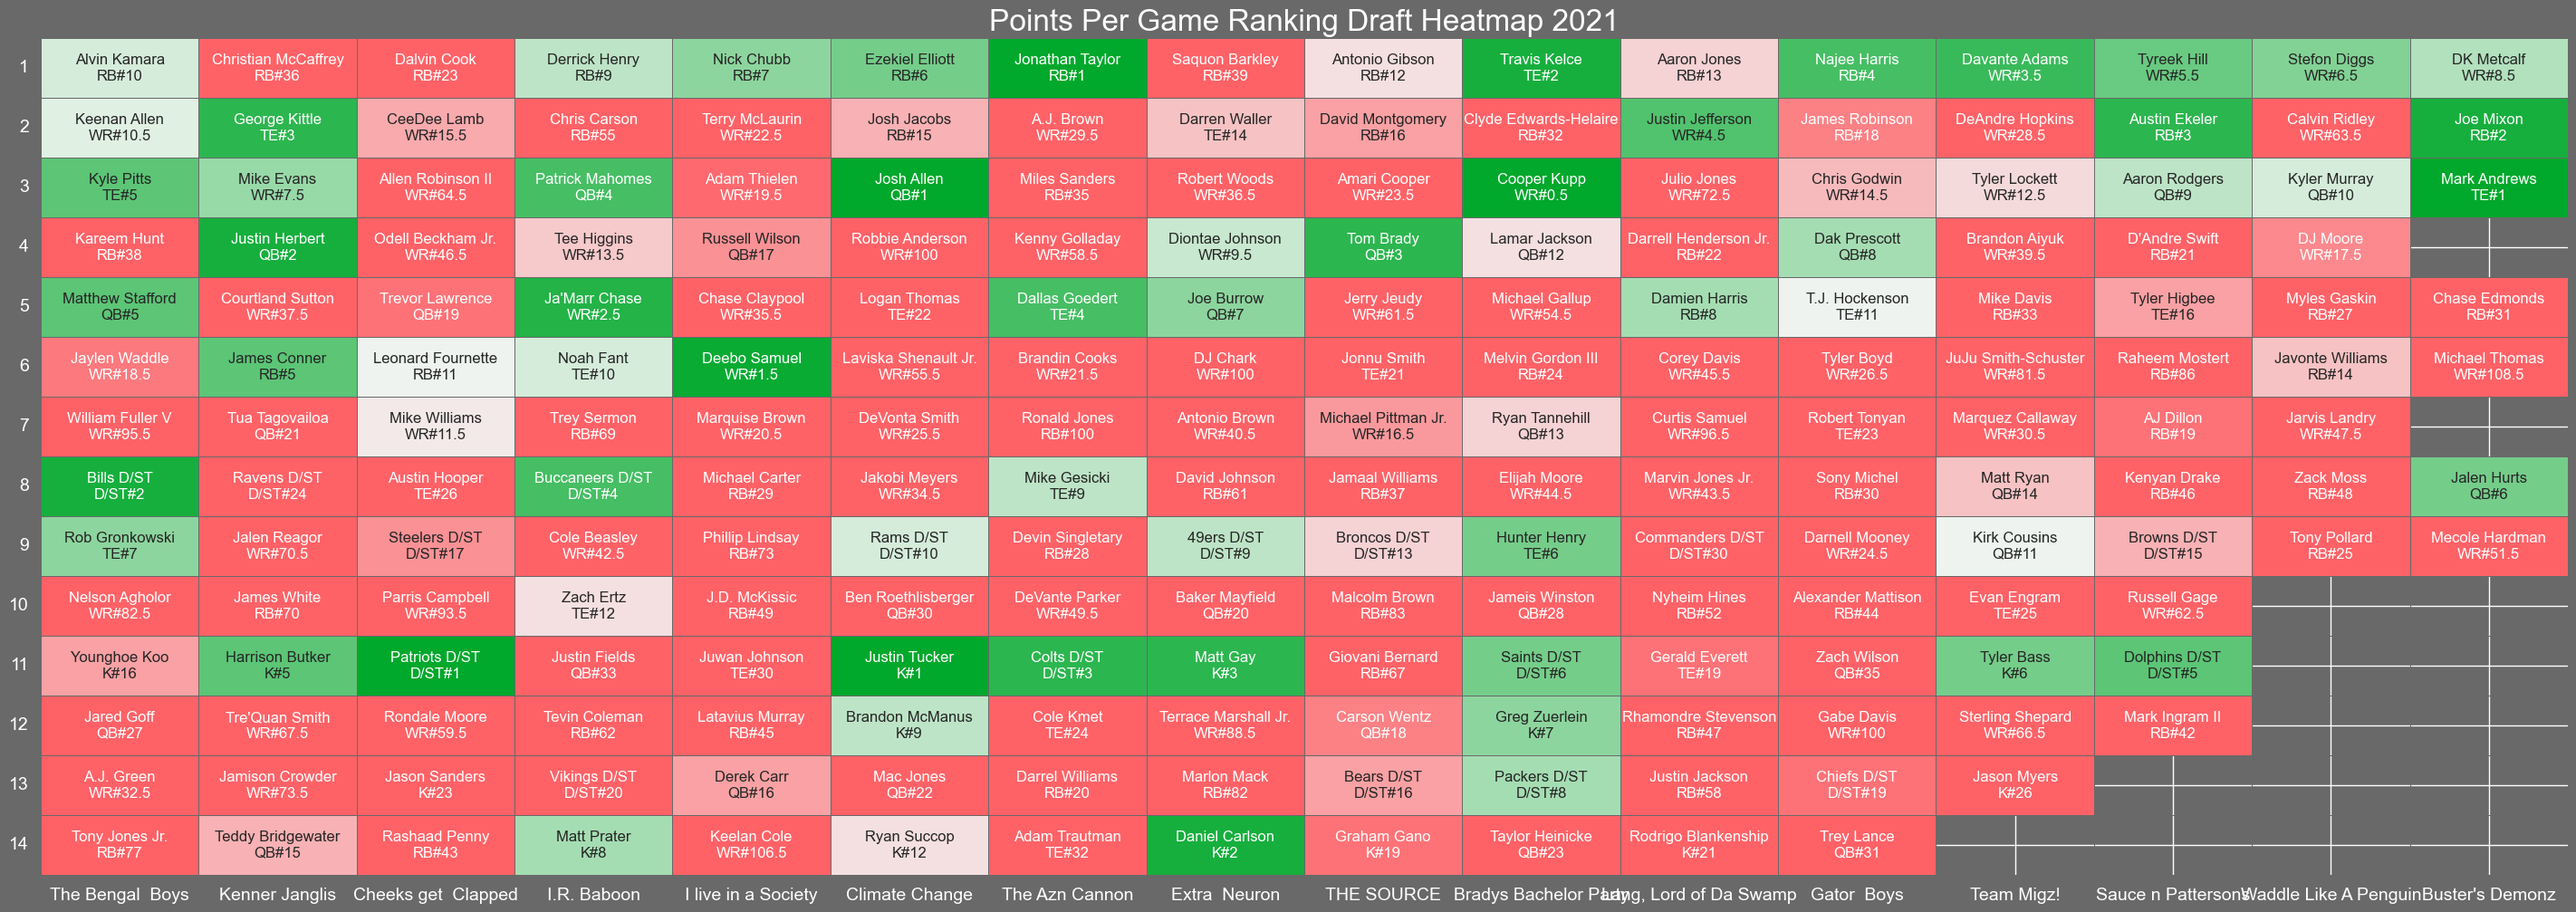
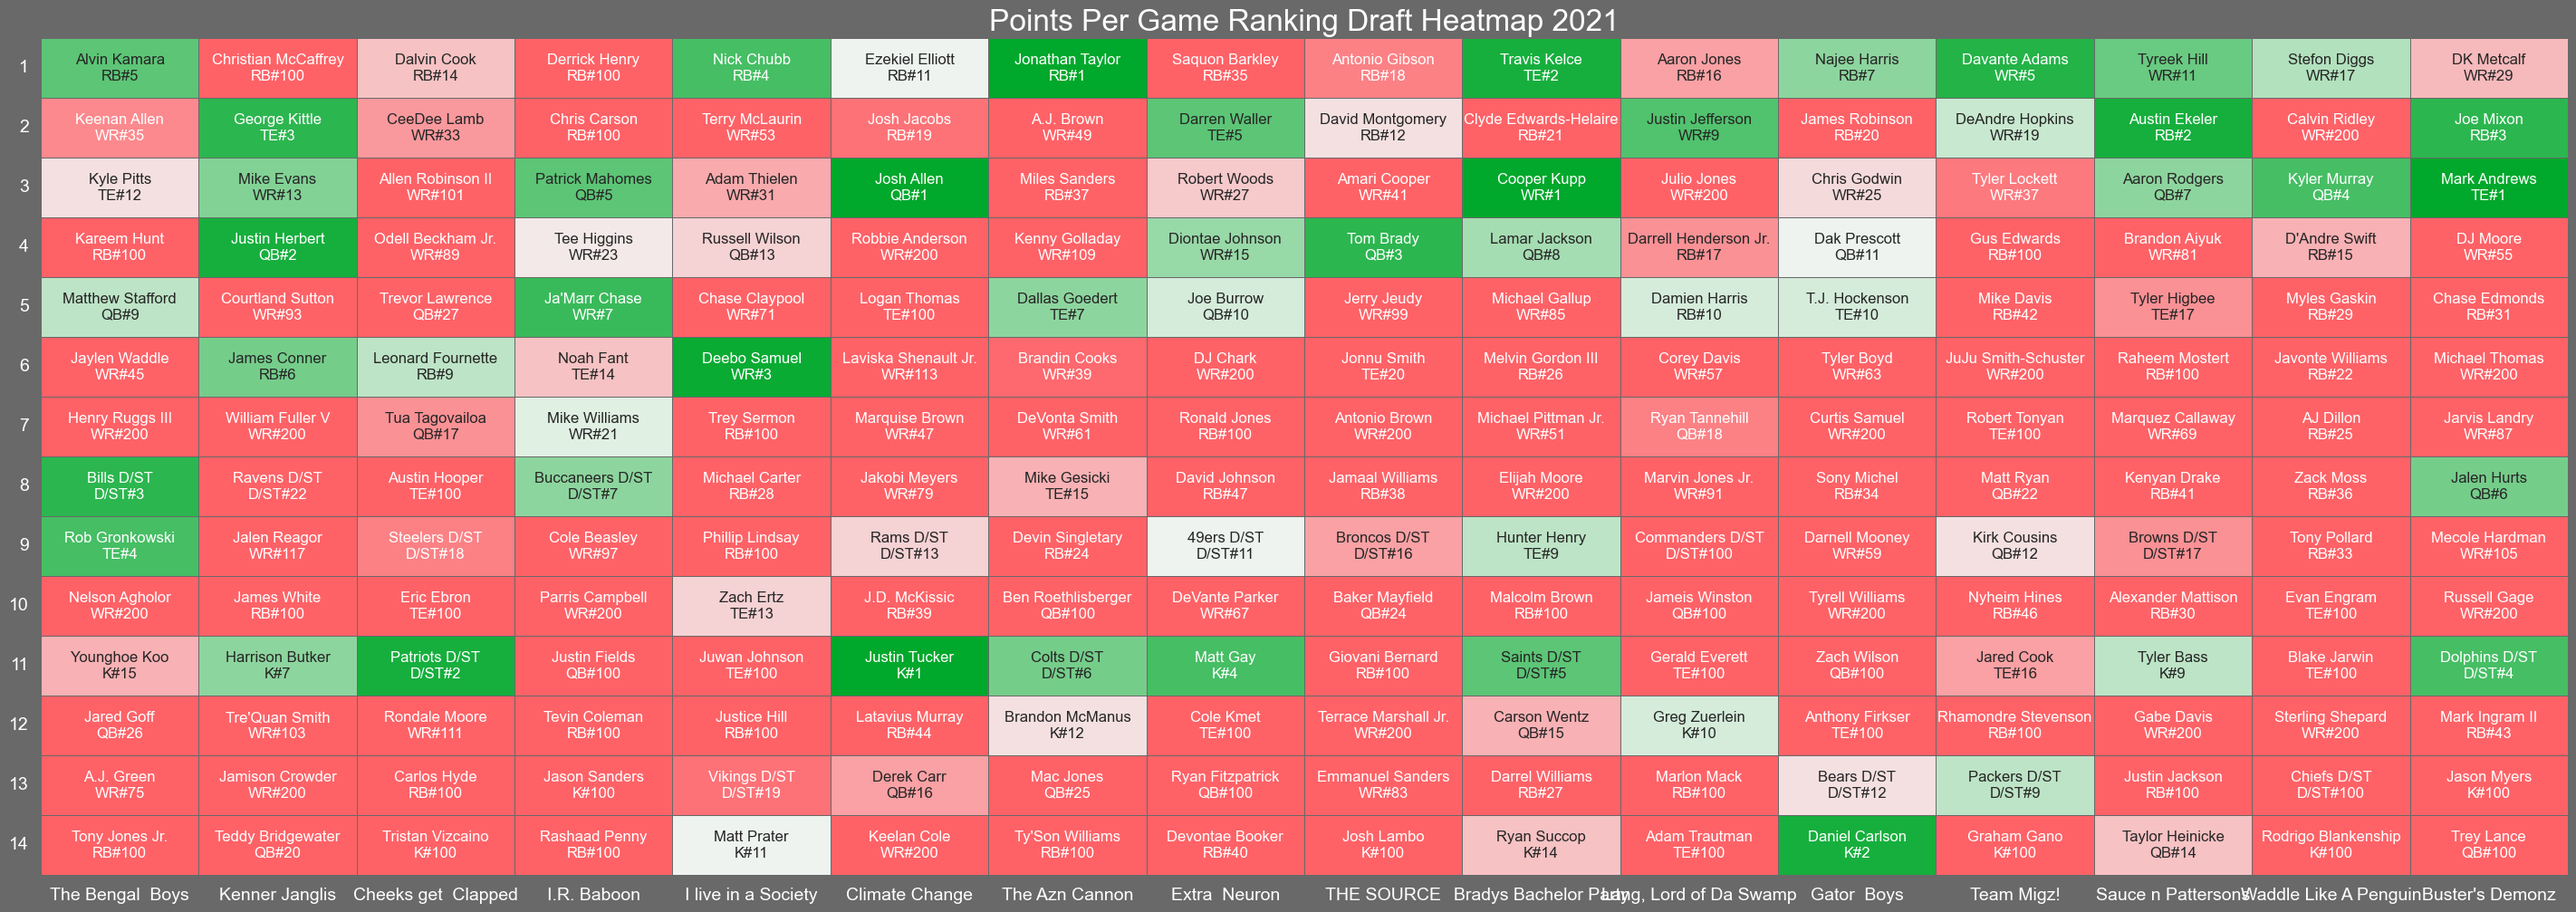
Improvments to FA data and visuals

diff --git a/GetData/getSeasonData.py b/GetData/getSeasonData.py
@@ -4,12 +4,13 @@ import datetime
 import json
 import psycopg2
 
-draftYear = 2021
+draftYear = 2020
 cursor = None
 conn = None
 pp = pprint.PrettyPrinter(width=41, compact=True)
 league = League(league_id=684556, year=draftYear, espn_s2='AEAfGvrTc9vkVt9%2BGTv6QxAb3nMwxomk8OcZsvEtbUEJbJAvYJHYH3byAdbZprQEFSzqyjphYlS3bQNSZo1a5WVYzgrNsxp7%2Bc5JD7vQzCZP25a%2FIHXUTlTa3RXMA9YnCDTPlu%2FQPWGF51MZyE6wNkesv%2F5RxPuOUcjP%2FqU%2FY3XPAEG3ZidG0E4OIN4KYzucffAPHW7nxoMLcwhwzbY594d7v6GTqqAlsGG0evuj9YA9F2QmrgV5%2Bu2XkKSNorEGwQ1ROgd17S6VW7ia0bh7UwSU', swid='{FD137FF0-20E0-4529-A766-93B377CB9B98}')
-
+with open('.\\GetData\\dictionary.json', 'r') as file:
+    sql_mapping = json.load(file)
 
 def sql_dict(dict1, dict2):
     dict3 = {}
@@ -58,6 +59,7 @@ def insert_record(data, table_name):
 
     # Execute the query with the values from the dictionary
     cursor.execute(query, tuple(record_data.values()))
+    print(f'inserted {values[0:4]}')
     conn.commit()
 
 def run_query(query):
@@ -78,12 +80,7 @@ def sql_dict(dict1, dict2):
 
 
 def get_missing_weeks(player_id):
-    # Establish a connection to the PostgreSQL database
-    conn = psycopg2.connect(host=db_host, database=db_name, user=db_user, password=db_password)
-
-    # Create a cursor object to execute SQL queries
-    cursor = conn.cursor()
-
+    connectPostgres()
     # Query the table for missing weeks
     query = f"""
         SELECT DISTINCT week
@@ -91,16 +88,12 @@ def get_missing_weeks(player_id):
         WHERE playerId = {player_id}
         ORDER BY week;
     """
-    cursor.execute(query)
-    existing_weeks = [row[0] for row in cursor.fetchall()]
+    existing_weeks = run_query(query)
 
     # Generate the list of missing weeks
     all_weeks = list(range(1, 18))  # Assuming 17 weeks in a season
     missing_weeks = [week for week in all_weeks if week not in existing_weeks]
-
-    # Close the cursor and connection
-    cursor.close()
-    conn.close()
+    closePostgres()
 
     return missing_weeks
     
@@ -146,10 +139,15 @@ def getPlayerData():
     print('getting player data')
     connectPostgres()
     query = f"""
-        SELECT DISTINCT playerId
+        SELECT distinct(player_stats.playerid)
         FROM player_stats
-        WHERE season = {draftYear}
-        GROUP BY playerId;
+        LEFT JOIN players ON player_stats.playerid = players.playerid
+        WHERE players.playerid IS NULL
+        UNION
+        SELECT distinct(draft_data.playerid)
+        FROM draft_data
+        LEFT JOIN players ON draft_data.playerid = players.playerid
+        WHERE players.playerid IS NULL
     """
     unique_player_ids = run_query(query)
     for player_id in unique_player_ids:
@@ -219,8 +217,6 @@ def getTeams():
 def getPlayerStats():
     print('getting player stats')
     connectPostgres()
-    with open('.\\GetData\\dictionary.json', 'r') as file:
-        sql_mapping = json.load(file)
     league = League(league_id=684556, year=draftYear, espn_s2='AEAfGvrTc9vkVt9%2BGTv6QxAb3nMwxomk8OcZsvEtbUEJbJAvYJHYH3byAdbZprQEFSzqyjphYlS3bQNSZo1a5WVYzgrNsxp7%2Bc5JD7vQzCZP25a%2FIHXUTlTa3RXMA9YnCDTPlu%2FQPWGF51MZyE6wNkesv%2F5RxPuOUcjP%2FqU%2FY3XPAEG3ZidG0E4OIN4KYzucffAPHW7nxoMLcwhwzbY594d7v6GTqqAlsGG0evuj9YA9F2QmrgV5%2Bu2XkKSNorEGwQ1ROgd17S6VW7ia0bh7UwSU', swid='{FD137FF0-20E0-4529-A766-93B377CB9B98}')
     pp = pprint.PrettyPrinter(width=41, compact=True)
 
@@ -284,28 +280,45 @@ def getPlayerStats():
     print('done')
 
 def getFaData():
+    connectPostgres()
     fa = league.free_agents(size=350)
-    for l in fa:
-        for s in l.stats:
-            try:
-                stats = s["breakdown"]
-            except KeyError:
-                stats = {}
-            stats['playerId'] = l.playerId
-            stats['playerName'] = l.name
-            stats['week'] = w
-            stats['season'] = draftYear
-            stats['totalPoints'] = l.points
-            stats['projectedPoints'] = l.projected_points
-            stats['position'] = l.position
-            newStats = sql_dict(sql_mapping, stats)
-            insert_record(newStats, 'player_stats')
-
-
+    if draftYear > 2021:
+        for l in fa:
+            for s in l.stats:
+                try:
+                    stats = s["breakdown"]
+                except KeyError:
+                    stats = {}
+                stats['playerId'] = l.playerId
+                stats['playerName'] = l.name
+                stats['week'] = s+1
+                stats['season'] = draftYear
+                stats['totalPoints'] = l.points
+                stats['projectedPoints'] = l.projected_points
+                stats['position'] = l.position
+                newStats = sql_dict(sql_mapping, stats)
+                insert_record(newStats, 'player_stats')
+    else:
+        for l in fa:
+            for s in l.stats:
+                try:
+                    stats = l.stats[s]["breakdown"]
+                except KeyError:
+                    stats = {}
+                stats['playerId'] = l.playerId
+                stats['playerName'] = l.name
+                stats['week'] = s+1
+                stats['season'] = draftYear
+                stats['totalPoints'] = l.points
+                stats['projectedPoints'] = l.projected_points
+                stats['position'] = l.position
+                newStats = sql_dict(sql_mapping, stats)
+                insert_record(newStats, 'player_stats')
+    closePostgres()
 #getPlayerStats()
-#getFaData()
-#fillData()
+getFaData()
+# fillData()
 # getTeams()
 # getActivities()
-getDraft()
+# getDraft()
 # getPlayerData()

diff --git a/Visualize/CreateVisualizations.py b/Visualize/CreateVisualizations.py
@@ -5,7 +5,7 @@ import pprint
 import seaborn as sns
 import matplotlib.pyplot as plt
 import psycopg2
-year = 2021
+year = 2020
 
 pp = pprint.PrettyPrinter(width=41, compact=True)
 def connectPostgres(): # Database connection details
@@ -33,13 +33,12 @@ def run_query(query):
     data = [row for row in cursor.fetchall()]
     return data
 
-picksQuery = f"""SELECT d.overallpick, d.round, d.pick, p.playername, p.Position, t.TeamName, sum(s.totalpoints) as total, COALESCE(sum(s.gamesplayed),0) as gamesplayed, COALESCE((sum(s.totalpoints)/sum(s.gamesplayed)),0)as ppg
+picksQuery = f"""SELECT d.overallpick, d.round, d.pick, p.playername, p.Position, t.TeamName, COALESCE(sum(s.totalpoints),0) as total, COALESCE(sum(s.gamesplayed),0) as gamesplayed, COALESCE((sum(s.totalpoints)/NULLIF(COALESCE(sum(s.gamesplayed),0),0)),0)as ppg
 FROM draft_data d
-JOIN player_stats s ON d.playerid = s.playerid and d.year = s.season
+LEFT JOIN player_stats s ON d.playerid = s.playerid and d.year = s.season
 join players p on d.playerid = p.playerid
 join Teams t on d.fantasyowner = t.teamid
-
-WHERE s.season = 2021
+WHERE d.year = {year} 
 group by d.overallpick, d.round, d.pick, p.playername, p.Position, t.TeamName
 order by round, pick;"""
 def createVisual(grid,values,teamnames,title,vmin,vmax,center):
@@ -51,15 +50,8 @@ def createVisual(grid,values,teamnames,title,vmin,vmax,center):
     d = pd.DataFrame(values,dtype=float)
     r = pd.DataFrame(grid)
 
-    # Set up the matplotlib figure
-    f, ax = plt.subplots(figsize=(40, 11))
-
-    # Generate a custom diverging colormap
     cmap = sns.diverging_palette(11, 130, s=100, l=60,  as_cmap=True)
-
-    # Draw the heatmap with the mask and correct aspect ratio
     sns.set(rc={'axes.facecolor':'dimgrey', 'figure.facecolor':'dimgrey'})
-
     fig, ax = plt.subplots(figsize=(36, 12))
     hm = sns.heatmap(d,annot=r, cmap=cmap, vmin=vmin, vmax=vmax, center=center, linewidths=.5, linecolor="dimgrey", cbar=False, fmt='')
     hm.set_xticklabels(teamnames, color="white",fontsize="14")
@@ -85,6 +77,7 @@ def totalPointsDraftHeatmap():
         if thisRound == p[1]:
             roundPicks.append(p[3]+"\n"+str(round(p[6],2)))
             roundValues.append(p[6])
+            print(p[3]+"\n"+str(round(p[6],2)))
 
         else:
             if roundPicks != []:
@@ -174,6 +167,8 @@ def totalPointsDraftHeatmapRankScale():
             rating = 1
         else:
             rating = 21 - rank
+        if p[4] == 'WR':
+            rank = int(rank*2)
         if thisRound == p[1]:
             roundPicks.append(p[3]+"\n"+p[4]+"#"+str(rank))
             roundValues.append(rating)
@@ -190,7 +185,7 @@ def totalPointsDraftHeatmapRankScale():
         valuesList.append(roundValues)
     
     closePostgres()
-    title = f"Points Per Game Ranking Draft Heatmap {year}"
+    title = f"Total Points Ranking Draft Heatmap {year}"
     createVisual(pickList,valuesList,teamnames,title,1,20,10)
 
 def ppgDraftHeatmapRankScale():
@@ -250,7 +245,7 @@ def ppgDraftHeatmapRankScale():
     
     closePostgres()
     
-    title = f"Total Points Ranking Draft Heatmap {year}"
+    title = f"Points Per Game Ranking Draft Heatmap {year}"
     createVisual(pickList,valuesList,teamnames,title,1,20,10)
 
 def DraftGamesPlayedHeatmap():
@@ -264,6 +259,8 @@ def DraftGamesPlayedHeatmap():
     closePostgres()
     thisRound = 0
     for p in picks:
+        if p[0] < 17:
+            teamnames.append(p[5])
         if thisRound == p[1]:
             roundPicks.append(p[3]+"\n"+str(round(p[7],2)))
             roundValues.append(p[7])
@@ -282,7 +279,7 @@ def DraftGamesPlayedHeatmap():
         valuesList.append(roundValues)
 
     
-    title = f"Total Games Played Ranking Draft Heatmap {year}"
+    title = f"Total Games Played Draft Heatmap {year}"
     createVisual(pickList,valuesList,teamnames,title,1,17,12)
 
 totalPointsDraftHeatmap()

diff --git a/GetData/getFAData.py b/GetData/getFAData.py
@@ -3,7 +3,7 @@ import pprint
 import csv
 import psycopg2
 import json
-draftYear = 2022
+draftYear = 2020
 def insert_record(data, table_name):
     # Database connection details
     db_host = 'ep-dark-cloud-064315-pooler.us-east-1.postgres.vercel-storage.com'
@@ -49,4 +49,18 @@ league = League(league_id=684556, year=draftYear, espn_s2='AEAfGvrTc9vkVt9%2BGTv
 pp = pprint.PrettyPrinter(width=41, compact=True)
 
 fa = league.free_agents(size=350)
-print(fa)
+for l in fa:
+    for s in l.stats:
+        try:
+            stats = l.stats[s]["breakdown"]
+        except KeyError:
+            stats = {}
+        stats['playerId'] = l.playerId
+        stats['playerName'] = l.name
+        stats['week'] = s+1
+        stats['season'] = draftYear
+        stats['totalPoints'] = l.points
+        stats['projectedPoints'] = l.projected_points
+        stats['position'] = l.position
+        newStats = sql_dict(sql_mapping, stats)
+        insert_record(newStats, 'player_stats')
